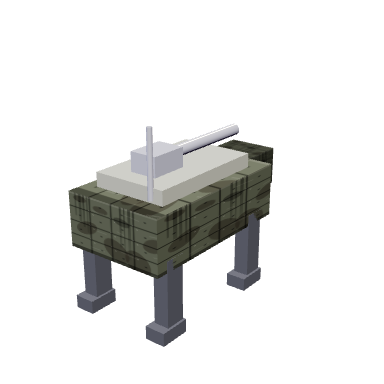
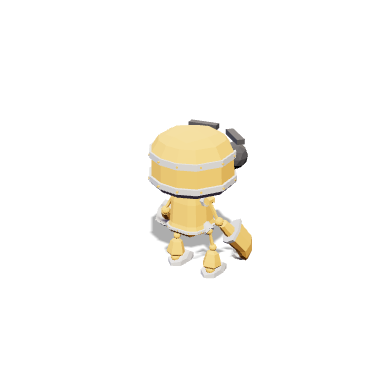
Realistic road: GLTF pipeline live; Drone Dog loads first CC0 model (placeholder)

Changed region(s): [[0.1562, 0.3125, 0.7188, 0.9062]]

diff --git a/index.html b/index.html
@@ -3395,6 +3395,85 @@ aiTick=function(dt){
 })();
 /* ==================== END V0.5g ==================== */
 
+/* ============================ GLTF MODEL PIPELINE ============================ */
+/* Realistic road: real modelled units drop in here as .glb files.
+   Any type NOT listed in MODELS uses its procedural mesh unchanged.
+   To convert a unit: drop assets/models/<name>.glb and add one line to MODELS.
+   The loader auto-frames to targetH, seats feet on the ground, applies yaw and
+   handles Draco compression and skinned meshes, so any export slots in cleanly. */
+(function(){
+  const MODELS = (window.MODELS = window.MODELS || {});
+  const CACHE  = {};     /* type -> {tmpl, skinned} */
+  let _loaderP = null;
+
+  const GLTF_URL  = 'https://cdn.jsdelivr.net/npm/three@0.128.0/examples/js/loaders/GLTFLoader.js';
+  const DRACO_URL = 'https://cdn.jsdelivr.net/npm/three@0.128.0/examples/js/loaders/DRACOLoader.js';
+  const SKEL_URL  = 'https://cdn.jsdelivr.net/npm/three@0.128.0/examples/js/utils/SkeletonUtils.js';
+  const DRACO_DEC = 'https://www.gstatic.com/draco/versioned/decoders/1.5.6/';
+
+  function inject(src){return new Promise((res,rej)=>{const s=document.createElement('script');
+    s.src=src;s.onload=()=>res();s.onerror=()=>rej(new Error('script '+src));document.head.appendChild(s);});}
+
+  function ensureLoader(){
+    if(_loaderP) return _loaderP;
+    _loaderP = (async()=>{
+      if(!(window.THREE&&THREE.GLTFLoader)) await inject(GLTF_URL);
+      if(!THREE.SkeletonUtils) await inject(SKEL_URL);            /* correct skinned cloning */
+      const loader=new THREE.GLTFLoader();
+      if(Object.values(MODELS).some(m=>m&&m.draco)){
+        if(!THREE.DRACOLoader) await inject(DRACO_URL);
+        const d=new THREE.DRACOLoader(); d.setDecoderPath(DRACO_DEC); loader.setDRACOLoader(d);
+      }
+      return loader;
+    })();
+    return _loaderP;
+  }
+
+  function isSkinned(o){let s=false;o.traverse(m=>{if(m.isSkinnedMesh)s=true;});return s;}
+
+  function normalise(root, spec){
+    let box=new THREE.Box3().setFromObject(root); const size=new THREE.Vector3(); box.getSize(size);
+    root.scale.setScalar(((spec.targetH||2.2)/(size.y||1))*(spec.scale||1));
+    box=new THREE.Box3().setFromObject(root); const c=new THREE.Vector3(); box.getCenter(c);
+    root.position.x-=c.x; root.position.z-=c.z; root.position.y-=box.min.y;
+    if(spec.yaw) root.rotation.y=spec.yaw;
+    root.traverse(o=>{if(o.isMesh){o.castShadow=true;o.receiveShadow=true;
+      if(o.material){o.material.envMapIntensity=(spec.env==null?1.0:spec.env);}}});
+    return root;
+  }
+
+  window.__loadModels = function(){
+    const types=Object.keys(MODELS);
+    if(!types.length) return Promise.resolve();
+    return ensureLoader().then(loader=>Promise.all(types.map(t=>new Promise(res=>{
+      loader.load(MODELS[t].url, g=>{const sc=g.scene||g.scenes[0];
+        CACHE[t]={tmpl:sc, skinned:isSkinned(sc)}; res();},
+        undefined, err=>{console.warn('[gltf] load failed',t,err&&err.message); res();});
+    })))).catch(e=>console.warn('[gltf] init failed', e&&e.message));
+  };
+  window.__gltfReady = function(t){return !!CACHE[t];};
+
+  const _mkPrev = makeUnitMesh;
+  makeUnitMesh = function(type,team){
+    const hit=CACHE[type];
+    if(!hit) return _mkPrev(type,team);
+    const spec=MODELS[type]||{};
+    const inst=(hit.skinned&&THREE.SkeletonUtils)?THREE.SkeletonUtils.clone(hit.tmpl):hit.tmpl.clone(true);
+    normalise(inst,spec);
+    const g=new THREE.Group(); g.add(inst);
+    if(spec.turret){const tn=inst.getObjectByName(spec.turret); if(tn) g.userData.turret=tn;}
+    g.userData.gltf=true;
+    return g;
+  };
+
+  /* --- registered CC0 models --------------------------------------------- */
+  /* Drone Dog: RobotExpressive by Tomas Laulhe, CC0 (mod Don McCurdy). Biped
+     placeholder proving the pipeline live; swap the .glb for a quadruped later. */
+  MODELS.dogbot = { url:'assets/models/dogbot.glb', targetH:2.4, yaw:Math.PI };
+
+  if(Object.keys(MODELS).length) window.__loadModels();
+})();
+
 /* ============================ START / END ============================ */
 function endGame(win){
   if(G.over)return;

diff --git a/assets/models/CREDITS.md b/assets/models/CREDITS.md
@@ -1,0 +1,6 @@
+# Model credits
+
+## dogbot.glb (Drone Dog slot, placeholder)
+RobotExpressive by Tomas Laulhe. Licence: CC0 1.0 (public domain).
+Modifications by Don McCurdy (CC0). Source: three.js examples.
+Biped placeholder proving the GLTF pipeline; swap for a quadruped model later.